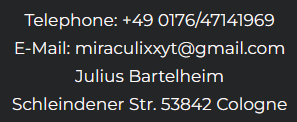
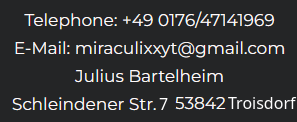
idk

Changed region(s): [[0.5152, 0.7869, 1.0, 0.9344]]

diff --git a/pages/legal/imprint.jsx b/pages/legal/imprint.jsx
@@ -384,40 +384,6 @@ function Imprint() {
                     <p><a href="https://adssettings.google.com/authenticated" target="_blank"
                           rel="noopener">https://adssettings.google.com/authenticated</a></p>
                     <p>in particular on options for preventing the use of data.</p>
-                    <h4>XSOLLA „CHECK-OUT“</h4>
-                    <p>To process orders through our online shop, we use the payment service of Xsolla Berlin GmbH,
-                        Mindspace, Krausenstraße 9-10 10117 Berlin, Germany referred to as "Xsolla", on our website.</p>
-                    <p>For this purpose, we have integrated Xsolla's check-out into the final order page of our online
-                        shop.</p>
-                    <p>The legal basis is the fulfilment of the contract according to Art. 6 Para. 1 lit. b.)&nbsp; EU
-                        General Data Protection Regulation (GDPR). In addition, we have a legitimate interest in
-                        offering effective and secure payment options, so that another legal basis ensues from Art. 6
-                        para. 1 lit f.) GDPR.&nbsp;</p>
-                    <p>By integrating Xsolla, your internet browser loads the check-out page from a Xsolla server. This
-                        means that the operating system you are using, type and version of your Internet browser,
-                        website from which the check-out has been requested, date and time of the call and the IP
-                        address are sent to Xsolla - even without your interaction with the check-out page.</p>
-                    <p>As soon as you complete the order in our online shop, the data you have entered in the input
-                        fields of the check-out page will be processed by Xsolla at your own responsibility in order to
-                        process the payment.</p>
-                    <p>With the offered payment methods "PayPal" and "Advance Payment", processing without your further
-                        consent is limited to the transfer of the payment data to us or PayPal.</p>
-                    <p>With the offered payment methods of "Purchase on Account", "Hire Purchase", "Credit Card",
-                        "Direct Debit" or "Immediate Payment", the following personal data is processed by Xsolla for
-                        the purpose of payment processing and for identity and credit checking:</p>
-                    <p>- Contact information such as names, addresses, date of birth, gender, email address, telephone
-                        number, mobile phone number, IP address, etc.</p>
-                    <p>- Information on the processing of the order, such as product type, product number, price,
-                        etc.</p>
-                    <p>- Payment information, such as debit and credit card data (card number, expiry date and CCV
-                        code), invoice data, account number, etc.</p>
-                    <p>If you choose the payment method "Purchase on Account" or "Hire Purchase", Xsolla collects and
-                        uses personal data and information about your previous payment behaviour to decide whether you
-                        will be granted the desired payment method. In addition, probability values for your future
-                        payment behaviour (so-called scoring) are used. Scoring is calculated on the basis of
-                        scientifically recognized mathematical and statistical methods.</p>
-                    <p>Xsolla provides further information on the processing described above as well as the applicable
-                        data protection regulations.</p>
                         </span>
                 </div>
             </div>

diff --git a/README.md b/README.md
@@ -1,46 +1,25 @@
-# Getting Started with Create React Homespace
+# MUtils Web
 
-This project was bootstrapped with [Create React Homespace](https://github.com/facebook/create-react-app).
+This is a Next.js app.
 
-## Available Scripts
+## Requirements
 
-In the project directory, you can run:
+- Node.js **20.x** (recommended: use `nvm`)
 
-### `npm start`
+This repo depends on native Node modules (via transitive deps). Using Node 20 avoids build failures that can happen on newer Node versions.
 
-Runs the app in the development mode.\
-Open [http://localhost:3000](http://localhost:3000) to view it in the browser.
+If you use `nvm`, you can run:
 
-The page will reload if you make edits.\
-You will also see any lint errors in the console.
+```bash
+nvm install
+nvm use
+```
 
-### `npm test`
+## Scripts
 
-Launches the test runner in the interactive watch mode.\
-See the section about [running tests](https://facebook.github.io/create-react-app/docs/running-tests) for more information.
-
-### `npm run build`
-
-Builds the app for production to the `build` folder.\
-It correctly bundles React in production mode and optimizes the build for the best performance.
-
-The build is minified and the filenames include the hashes.\
-Your app is ready to be deployed!
-
-See the section about [deployment](https://facebook.github.io/create-react-app/docs/deployment) for more information.
-
-### `npm run eject`
-
-**Note: this is a one-way operation. Once you `eject`, you can’t go back!**
-
-If you aren’t satisfied with the build tool and configuration choices, you can `eject` at any time. This command will remove the single build dependency from your project.
-
-Instead, it will copy all the configuration files and the transitive dependencies (webpack, Babel, ESLint, etc) right into your project so you have full control over them. All of the commands except `eject` will still work, but they will point to the copied scripts so you can tweak them. At this point you’re on your own.
-
-You don’t have to ever use `eject`. The curated feature set is suitable for small and middle deployments, and you shouldn’t feel obligated to use this feature. However we understand that this tool wouldn’t be useful if you couldn’t customize it when you are ready for it.
-
-## Learn More
-
-You can learn more in the [Create React Homespace documentation](https://facebook.github.io/create-react-app/docs/getting-started).
-
-To learn React, check out the [React documentation](https://reactjs.org/).
+```bash
+npm ci
+npm run dev
+npm run build
+npm run start
+```
